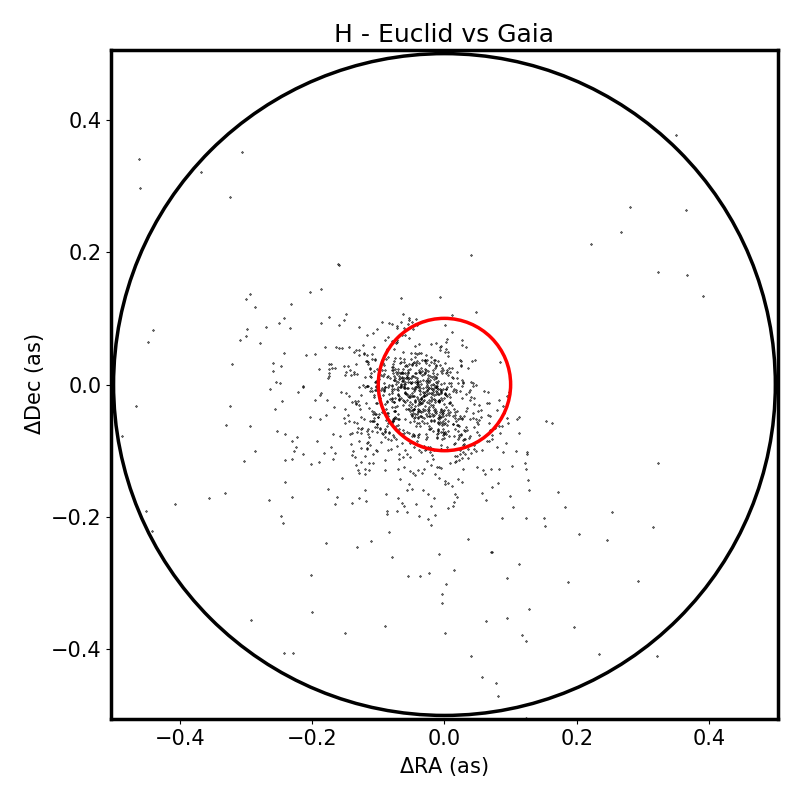
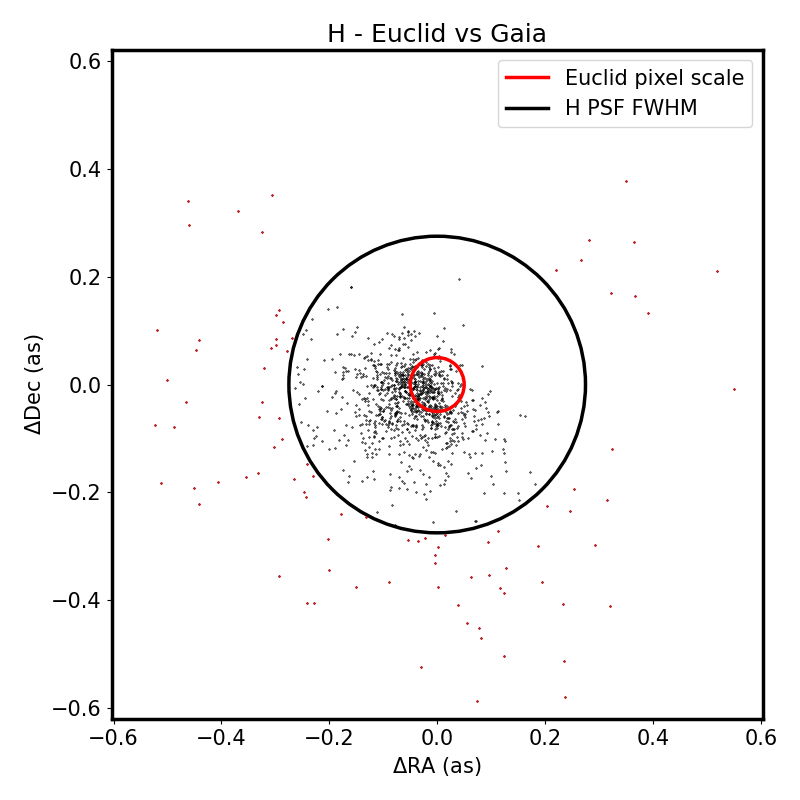
beginning LAE sims

diff --git a/src/simulation/add_emission_lines.py b/src/simulation/add_emission_lines.py
@@ -1,0 +1,109 @@
+#!/usr/bin/env python3
+
+"""
+Adds lyman alpha emission lines to SED models.
+
+Modified from some code used from my z=7 paper. We want to know how these sources appear in our overlapping filter set with Euclid.
+
+Created: Thursday 19th July 2022. Hottest day ever!
+Modified: Thursday 18th April 2024. 
+
+"""
+
+import numpy as np
+import matplotlib.pyplot as plt
+from astropy.io import ascii
+import os
+from pathlib import Path
+
+plt.rcParams['axes.linewidth'] = 2.5
+plt.rcParams.update({'font.size': 15})
+plt.rcParams['figure.dpi'] = 100
+
+# Set up directories
+lya_dir = Path.cwd().parent.parent / 'data' / 'simulations' / 'LAEs'
+sed_dir = Path.home() / 'lephare' / 'lephare_dev' / 'sed' / 'GAL' / 'BC03' / 'ASCII'
+
+#sed_dir = '/mnt/zfsusers/varadaraj/lephare/lephare_dev/sed/GAL/LYMAN_ALPHA/ASCII/'
+os.chdir(sed_dir)
+
+for f in os.listdir(sed_dir)[::10]:
+
+    # Make sure we only take the .ascii files
+    if f[-5:] == 'ascii':
+
+        # Print file name
+        #print(f)
+
+        # Open the file!
+        sed = ascii.read(f)
+
+        # plt.plot(sed['col1'], sed['col2'])
+        # plt.yscale('log')
+        # plt.show()
+        # continue
+
+        # Get lower and upper limits in wlen for measuring continuum
+
+        # Flux value
+        low = next(i for i in sed['col1'] if i > 1249.0)
+        # Index of the above flux value
+        idx_low = np.where(sed['col1'] == 1255.0)[0][0]
+
+        upp = next(i for i in sed['col1'] if i > 1299.0)
+        idx_upp = np.where(sed['col1'] == 1305.0)[0][0]
+
+        # Print this information
+        #print('Lower continuum bound: ', low, idx_low)
+        #print('Upper continuum bound: ', upp, idx_upp)
+        #print('Unnormalised continuum flux: ', np.sum(sed['col2'][idx_low:idx_upp]))
+
+        # Lines to see where we are measuring the continuum
+        # plt.vlines(low, 0, 0.002, color='red')
+        # plt.vlines(upp, 0, 0.002, color='red')
+        # plt.show()
+        # continue
+
+        # Find SED resolution
+        h = sed['col1'][300] - sed['col1'][299]
+        #print('h: ', h)
+
+        # Compute continuum flux
+        f_cont = np.sum(sed['col2'][idx_low:idx_upp]) / (idx_upp - idx_low)
+        #print('Continuum flux: ', f_cont)
+
+        # Create EW grid from 10 to 240 Angstroms, in steps of 10.
+        EWs = np.arange(0, 250, 10)
+
+        tmp = []
+
+        # Iterate through the EWs
+        for i, ew in enumerate(EWs):
+
+            # Find intensity of line
+            f_lya = f_cont * ( (EWs[i]/h) - 1)
+
+            #print('EW and flux: ', ew, f_lya)
+
+            # Find where Lyman alpha line needs to go
+            idx_lya = np.where( (sed['col1'] > 1214.0) & (sed['col1'] < 1225.0) )[0][0]
+
+            # Make sed copy
+            tmp = sed
+
+            # Change to 1216A and add Lya flux.
+            tmp['col1'][idx_lya] = 1216.0
+            tmp['col2'][idx_lya] = f_lya
+
+            # Save the SED to the Lyman alpha folder
+            lya_str = f[:-6] + '_EW{0}A'.format(EWs[i]) + '.ascii'
+            ascii.write(sed, lya_dir / lya_str, overwrite=True, format='no_header')
+
+            # Plot
+            plt.plot(sed['col1'], sed['col2'], label='Continuum')
+            plt.plot(tmp['col1'], tmp['col2'], label='Lyman alpha')
+            plt.yscale('log')
+            plt.show()
+
+#            f.append()
+

diff --git a/src/validation/bad_astrom_on_footprint.py b/src/validation/bad_astrom_on_footprint.py
@@ -24,8 +24,14 @@ stars_dir = Path.cwd().parent.parent / 'data' / 'ref_catalogues' / 'stars'
 
 images = glob.glob(str(euclid_dir / '*BGSUB-*'))
 
-# Compare against VISTA or JWST? If true, compare against VISTA
+# Compare against VISTA...
 vista = False
+
+# Or JWST
+jwst = True
+
+# Or gaia
+gaia = False
 
 # List to store centroid coordinates and corresponding image filenames
 centroid_list = []
@@ -91,15 +97,19 @@ e = Polygon(np.array([[150.6599884,2.6947483], [149.8463557,2.9082861], [149.606
 ax.add_patch(e)
 
 #! Plot positions of large offset stars
-filter_name = 'Y'
+filter_name = 'H'
 if vista:
     stars = ascii.read(stars_dir / f'{filter_name}_outside_pixscale_vista_euclid_coords.ascii')
     stars_ra = stars['RA_vista']
     stars_dec = stars['DEC_vista']
-else:
+if jwst:
     stars = ascii.read(stars_dir / f'{filter_name}_outside_pixscale_jwst_euclid_coords.ascii')
     stars_ra = stars['RA_jwst']
     stars_dec = stars['DEC_jwst']
+if gaia:
+    stars = ascii.read(stars_dir / f'{filter_name}_outside_pixscale_euclid_gaia_coords.ascii')
+    stars_ra = stars['RA_Gaia']
+    stars_dec = stars['DEC_Gaia']
 
 #! Plot the ultra-deep stripes
 strip1 = Polygon(np.array([[150.43, 2.76], [150.57, 2.76], [150.57, 1.66], [150.43, 1.66]]), closed=True, edgecolor='orange', facecolor='none', lw=2.5, alpha=0.8)
@@ -124,7 +134,12 @@ ax.set_ylabel('DEC (deg)')
 ax.legend(loc='upper right')
 plt.gca().set_aspect('equal', adjustable='box')
 plt.tight_layout()
-plt.savefig(Path.cwd().parent.parent / 'plots' / 'mosaic' / f'{filter_name}_bad_astrom_on_footprint.png')
+if vista:
+    plt.savefig(Path.cwd().parent.parent / 'plots' / 'mosaic' / f'{filter_name}_bad_astrom_on_footprint_vista.png')
+if jwst:
+    plt.savefig(Path.cwd().parent.parent / 'plots' / 'mosaic' / f'{filter_name}_bad_astrom_on_footprint_jwst.png')
+if gaia:
+    plt.savefig(Path.cwd().parent.parent / 'plots' / 'mosaic' / f'{filter_name}_bad_astrom_on_footprint_gaia.png')
 plt.show()
 
 

diff --git a/src/validation/astrometric_accurary.py b/src/validation/astrometric_accurary.py
@@ -22,13 +22,13 @@ stars_dir = Path.cwd().parent.parent / 'data' / 'ref_catalogues' / 'stars'
 plot_dir = Path.cwd().parent.parent / 'plots' / 'astrometry'
 
 # Run Gaia crossmatched stars?
-gaia = False
+gaia = True
 
 # Run VISTA crossmatches stars?
 vista = False
 
 # rUN JWST crossmatched stars?
-jwst = True
+jwst = False
 jwst_filter_dict = {
     'Y': 'f115w',
     'J': 'f150w',
@@ -45,8 +45,8 @@ for i, filter_name in enumerate(filter_names):
 
     # Read the commented header stars.ascii files
     if gaia:
-        stars_file = stars_dir / f'{filter_name}_euclid_gaia_coords.ascii' #! Stars used for PSFEx 
-        #stars_file = stars_dir / f'{filter_name}_brightEuclid_gaia_coords.ascii' #! Brighter stars (inc. saturated)
+        #stars_file = stars_dir / f'{filter_name}_euclid_gaia_coords.ascii' #! Stars used for PSFEx 
+        stars_file = stars_dir / f'{filter_name}_brightEuclid_gaia_coords.ascii' #! Brighter stars (inc. saturated)
     if vista:
         stars_file = stars_dir / f'{filter_name}_vista_euclid_coords.ascii'
     if jwst:
